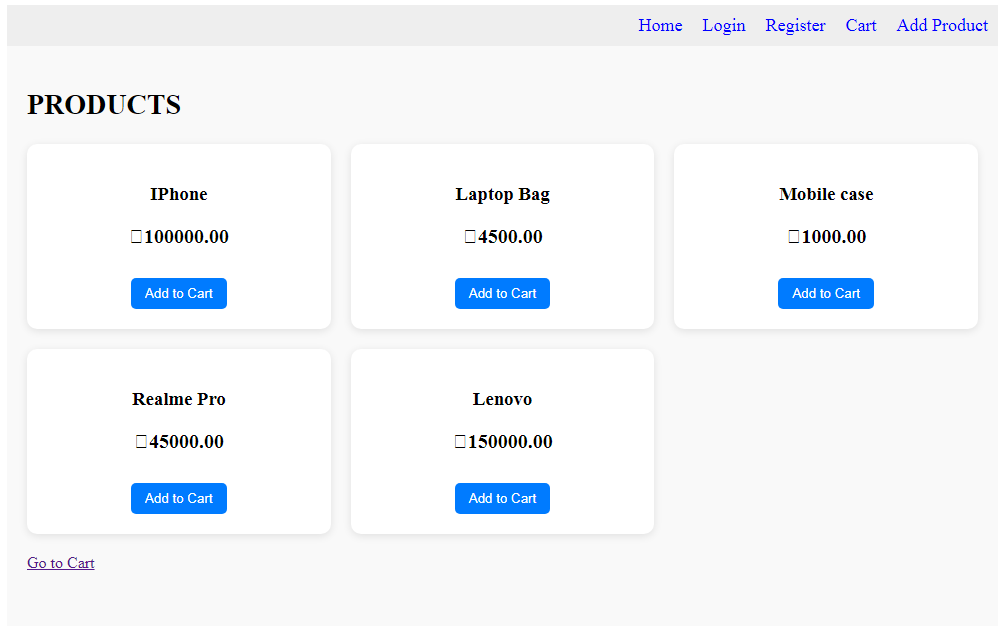
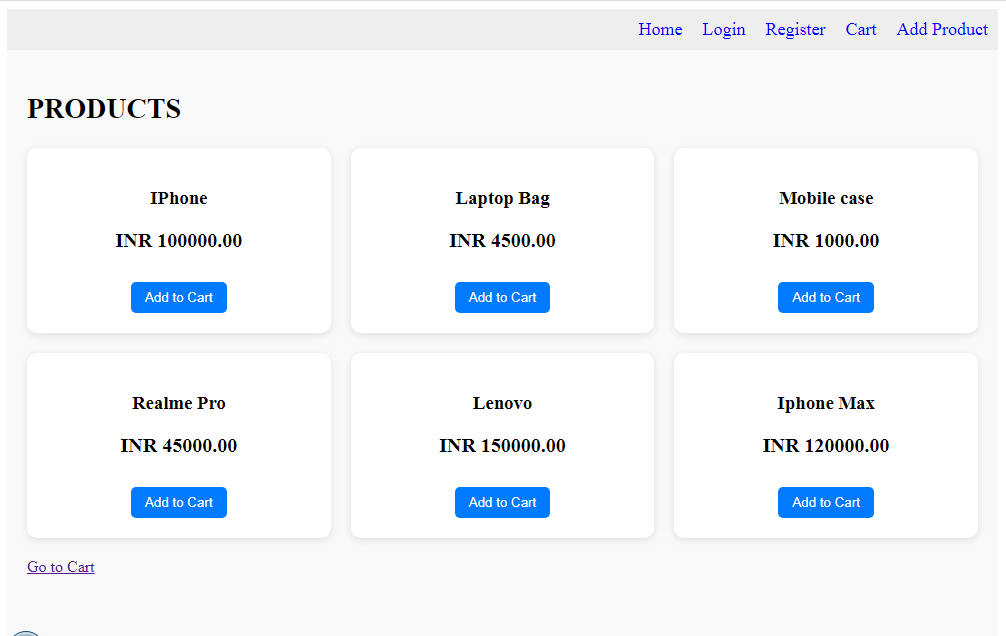
sample details changed

diff --git a/src/pages/OrderReview.tsx b/src/pages/OrderReview.tsx
@@ -56,11 +56,11 @@ export default function OrderReview() {
             <div>
               {item.title} × {item.qty}
             </div>
-            <div>₹{item.price * item.qty}</div>
+            <div>INR {item.price * item.qty}</div>
           </div>
         ))}
 
-        <h3 style={{ marginTop: "20px" }}>Total: ₹{total}</h3>
+        <h3 style={{ marginTop: "20px" }}>Total: INR {total}</h3>
 
         {/* Submit Button */}
         <button

diff --git a/src/pages/Home.tsx b/src/pages/Home.tsx
@@ -95,7 +95,7 @@ export default function Home() {
         {products.map((p) => (
           <div key={p.id} style={cardStyle}>
             <h3>{p.title}</h3>
-            <p style={{ fontSize: "20px", fontWeight: "bold" }}>₹{p.price}</p>
+            <p style={{ fontSize: "20px", fontWeight: "bold" }}>INR {p.price}</p>
 
             {/* Add to Cart */}
             <button style={buttonStyle} onClick={() => addToCart(p)}>

diff --git a/src/pages/Cart.tsx b/src/pages/Cart.tsx
@@ -84,7 +84,7 @@ export default function Cart() {
             fontSize: "18px"
           }}>
             <div>{c.title} × {c.qty}</div>
-            <div>₹{c.price * c.qty}</div>
+            <div>INR {c.price * c.qty}</div>
             <button style={{
               backgroundColor: "#ff4d4d",
               color: "#fff",
